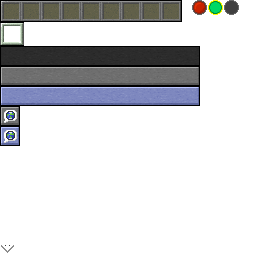
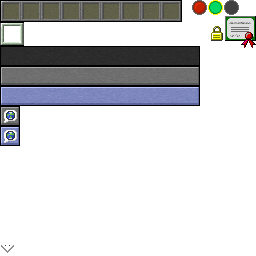
added configurable main menu link

Changed region(s): [[0.8125, 0.0625, 1.0, 0.1875]]

diff --git a/src/main/java/net/minecraft/src/GuiMainMenu.java b/src/main/java/net/minecraft/src/GuiMainMenu.java
@@ -198,6 +198,7 @@ public class GuiMainMenu extends GuiScreen {
 				int w = this.fontRenderer.getStringWidth("eaglercraft readme.txt") * 3 / 4;
 				if(par1 >= (this.width - w - 4) && par1 <= this.width && par2 >= 0 && par2 <= 9) {
 					showAck = true;
+					return;
 				}
 				/*
 				w = this.fontRenderer.getStringWidth("debug console") * 3 / 4;
@@ -205,6 +206,31 @@ public class GuiMainMenu extends GuiScreen {
 					EaglerAdapter.openConsole();
 				}
 				*/
+				if(ConfigConstants.mainMenuItem > 0 && ConfigConstants.mainMenuItemLink != null) {
+					//drawRect((this.width - w - 4), 0, this.width, 9, 0x55200000);
+
+					int posX = this.width / 2 - 170 - this.width / 10;
+					int posY = this.height / 4 + 70;
+					int ww = 66;
+					int hh = 46;
+					int ln0w = ConfigConstants.mainMenuItemLine0 == null ? 0 : fontRenderer.getStringWidth(ConfigConstants.mainMenuItemLine0);
+					ww = ww < ln0w ? ln0w : ww;
+					hh = hh < ln0w ? hh + 12 : hh;
+					int ln1w = ConfigConstants.mainMenuItemLine1 == null ? 0 : fontRenderer.getStringWidth(ConfigConstants.mainMenuItemLine1);
+					ww = ww < ln1w ? ln1w : ww;
+					hh = hh < ln1w ? hh + 12 : hh;
+					int ln2w = ConfigConstants.mainMenuItemLine2 == null ? 0 : fontRenderer.getStringWidth(ConfigConstants.mainMenuItemLine2);
+					ww = ww < ln2w ? ln2w : ww;
+					hh = hh < ln2w ? hh + 12 : hh;
+					
+					ww += 20;
+					hh += 20;
+					
+					if(par1 > posX && par1 < posX + (ww / 4 * 3) && par2 > posY && par2 < posY + (hh / 4 * 3)) {
+						EaglerAdapter.openLink(ConfigConstants.mainMenuItemLink);
+						return;
+					}
+				}
 			}
 		}else {
 			if(par3 == 0) {
@@ -401,6 +427,7 @@ public class GuiMainMenu extends GuiScreen {
 	private static final TextureLocation mclogo = new TextureLocation("/title/mclogo.png");
 	private static final TextureLocation ackbk = new TextureLocation("/gui/demo_bg.png");
 	private static final TextureLocation beaconx = new TextureLocation("/gui/beacon.png");
+	private static final TextureLocation items = new TextureLocation("/gui/items.png");
 
 	/**
 	 * Draws the screen and all the components in it.
@@ -490,6 +517,92 @@ public class GuiMainMenu extends GuiScreen {
 		this.drawString(this.fontRenderer, var10, 0, 0, 16777215);
 		EaglerAdapter.glPopMatrix();
 		*/
+		
+		if(ConfigConstants.mainMenuItem > 0 && ConfigConstants.mainMenuItemLink != null) {
+			//drawRect((this.width - w - 4), 0, this.width, 9, 0x55200000);
+
+			int posX = this.width / 2 - 170 - this.width / 10;
+			int posY = this.height / 4 + 70;
+			int ww = 66;
+			int hh = 46;
+			int ln0w = ConfigConstants.mainMenuItemLine0 == null ? 0 : fontRenderer.getStringWidth(ConfigConstants.mainMenuItemLine0);
+			ww = ww < ln0w ? ln0w : ww;
+			hh = hh < ln0w ? hh + 12 : hh;
+			int ln1w = ConfigConstants.mainMenuItemLine1 == null ? 0 : fontRenderer.getStringWidth(ConfigConstants.mainMenuItemLine1);
+			ww = ww < ln1w ? ln1w : ww;
+			hh = hh < ln1w ? hh + 12 : hh;
+			int ln2w = ConfigConstants.mainMenuItemLine2 == null ? 0 : fontRenderer.getStringWidth(ConfigConstants.mainMenuItemLine2);
+			ww = ww < ln2w ? ln2w : ww;
+			hh = hh < ln2w ? hh + 12 : hh;
+			
+			ww += 20;
+			hh += 20;
+			
+			boolean over = par1 > posX && par1 < posX + (ww / 4 * 3) && par2 > posY && par2 < posY + (hh / 4 * 3);
+			
+			int iconSize = 45;
+			
+			if(over) {
+				EaglerAdapter.glPushMatrix();
+				EaglerAdapter.glTranslatef(posX, posY, 0.0f);
+				EaglerAdapter.glScalef(0.75f, 0.75f, 0.75f);
+
+				drawRect(0, 0, ww, hh, 0x44000022);
+				
+				drawRect(3, 3, ww - 3, 4, 0x99999999);
+				drawRect(3, hh - 4, ww - 3, hh - 3, 0x99999999);
+				drawRect(3, 4, 4, hh - 4, 0x99999999);
+				drawRect(ww - 4, 4, ww - 3, hh - 4, 0x99999999);
+				
+				int i = 10;
+				
+				if(ln0w > 0) {
+					this.drawString(this.fontRenderer, ConfigConstants.mainMenuItemLine0, (ww - ln0w) / 2, i, 0xFFFF99);
+					i += 12;
+				}
+				
+				items.bindTexture();
+				
+				EaglerAdapter.glColor4f(1.0f, 1.0f, 1.0f, 1.0f);
+				this.drawTexturedModelRectFromIcon((ww - iconSize) / 2, i, Item.itemsList[ConfigConstants.mainMenuItem].getIconFromDamage(0), iconSize, iconSize);
+				
+				i += iconSize + 5;
+				
+				if(ln1w > 0) {
+					this.drawString(this.fontRenderer, ConfigConstants.mainMenuItemLine1, (ww - ln1w) / 2, i, 0xFFFF99);
+					i += 12;
+				}
+				
+				if(ln2w > 0) {
+					this.drawString(this.fontRenderer, ConfigConstants.mainMenuItemLine2, (ww - ln2w) / 2, i, 0xDDDDDD);
+				}
+				
+				int ww75 = (ww * 4 / 3);
+				int hh75 = (hh * 4 / 3);
+				
+				//this.drawString(this.fontRenderer, var10, this.width - this.fontRenderer.getStringWidth(var10) - 2, this.height - 10, 16777215);
+				
+				EaglerAdapter.glPopMatrix();
+				
+			}else {
+				EaglerAdapter.glEnable(EaglerAdapter.GL_BLEND);
+				EaglerAdapter.glBlendFunc(EaglerAdapter.GL_SRC_ALPHA, EaglerAdapter.GL_ONE_MINUS_SRC_ALPHA);
+				EaglerAdapter.glColor4f(0.9f, 0.9f, 0.9f, MathHelper.sin((float)(System.currentTimeMillis() % 1000000l) / 300f) * 0.17f + 0.5f);
+				
+				items.bindTexture();
+				
+				EaglerAdapter.glPushMatrix();
+				EaglerAdapter.glTranslatef(posX, posY, 0.0f);
+				EaglerAdapter.glScalef(0.75f, 0.75f, 0.75f);
+				this.drawTexturedModelRectFromIcon((ww - iconSize) / 2, ln0w > 0 ? 22 : 10, Item.itemsList[ConfigConstants.mainMenuItem].getIconFromDamage(0), iconSize, iconSize);
+				EaglerAdapter.glPopMatrix();
+				
+				EaglerAdapter.glColor4f(1.0f, 1.0f, 1.0f, 1.0f);
+				EaglerAdapter.glDisable(EaglerAdapter.GL_BLEND);
+			}
+			
+		}
+		
 		if(showAck) {
 			super.drawScreen(0, 0, par3);
 			this.drawGradientRect(0, 0, this.width, this.height, -1072689136, -804253680);

diff --git a/src/main/java/net/minecraft/src/ServerList.java b/src/main/java/net/minecraft/src/ServerList.java
@@ -40,6 +40,16 @@ public class ServerList {
 			hideDownDefaultServers = nbt.getBoolean("hide_down");
 			ConfigConstants.ayonullTitle = nbt.hasKey("serverListTitle") ? nbt.getString("serverListTitle") : null;
 			ConfigConstants.ayonullLink = nbt.hasKey("serverListLink") ? nbt.getString("serverListLink") : null;
+			if(nbt.hasKey("mainMenu")) {
+				NBTTagCompound cmp = nbt.getCompoundTag("mainMenu");
+				ConfigConstants.mainMenuItem = cmp.hasKey("mainMenuItem") ? (int)cmp.getShort("mainMenuItem") & 0xffff : -1;
+				if(ConfigConstants.mainMenuItem > 0) {
+					ConfigConstants.mainMenuItemLine0 = cmp.getStringOrNull("itemLine0");
+					ConfigConstants.mainMenuItemLine1 = cmp.getStringOrNull("itemLine1");
+					ConfigConstants.mainMenuItemLine2 = cmp.getStringOrNull("itemLine2");
+					ConfigConstants.mainMenuItemLink = cmp.getStringOrNull("itemLink");
+				}
+			}
 			forcedServers.clear();
 			NBTTagList list = nbt.getTagList("servers");
 			for (int i = 0; i < list.tagCount(); ++i) {

diff --git a/src/main/java/net/lax1dude/eaglercraft/ConfigConstants.java b/src/main/java/net/lax1dude/eaglercraft/ConfigConstants.java
@@ -4,7 +4,7 @@ public class ConfigConstants {
 	
 	public static boolean profanity = false;
 
-	public static final String version = "22w16h";
+	public static final String version = "22w19a";
 	public static final String mainMenuString = "eaglercraft " + version;
 	
 	public static final String forkMe = "https://github.com/LAX1DUDE/eaglercraft";
@@ -14,4 +14,10 @@ public class ConfigConstants {
 	public static String ayonullTitle = null;
 	public static String ayonullLink = null;
 
+	public static int mainMenuItem = -1;
+	public static String mainMenuItemLine0 = null;
+	public static String mainMenuItemLine1 = null;
+	public static String mainMenuItemLine2 = null;
+	public static String mainMenuItemLink = null;
+	
 }

diff --git a/src/main/java/net/minecraft/src/GLAllocation.java b/src/main/java/net/minecraft/src/GLAllocation.java
@@ -68,7 +68,7 @@ public class GLAllocation {
 	 * Creates and returns a direct byte buffer with the specified capacity. Applies
 	 * native ordering to speed up access.
 	 */
-	public static synchronized ByteBuffer createDirectByteBuffer(int par0) {
+	public static ByteBuffer createDirectByteBuffer(int par0) {
 		return EaglerAdapter.isWebGL ? ByteBuffer.wrap(new byte[par0]).order(ByteOrder.nativeOrder()) : ByteBuffer.allocateDirect(par0).order(ByteOrder.nativeOrder());
 	}
 

diff --git a/src/main/java/net/minecraft/src/NBTTagCompound.java b/src/main/java/net/minecraft/src/NBTTagCompound.java
@@ -330,4 +330,8 @@ public class NBTTagCompound extends NBTBase {
 	public static Map getTagMap(NBTTagCompound par0NBTTagCompound) {
 		return par0NBTTagCompound.tagMap;
 	}
+
+	public String getStringOrNull(String string) {
+		return !this.tagMap.containsKey(string) ? null : ((NBTTagString) this.tagMap.get(string)).data;
+	}
 }
